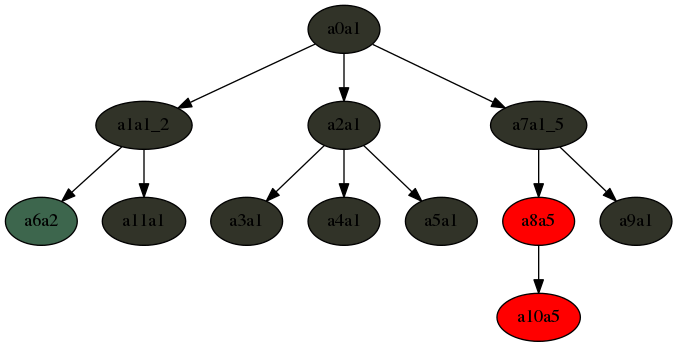
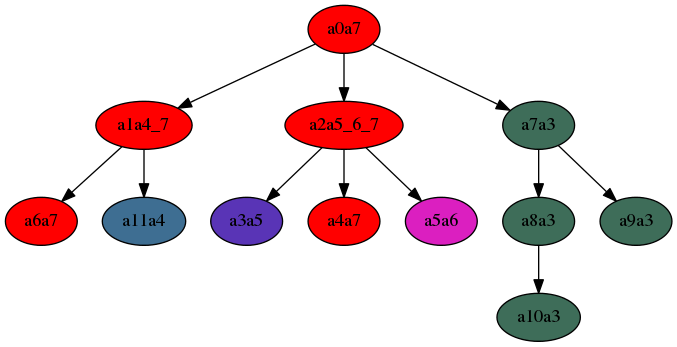
Add min coloring

diff --git a/Graph.py b/Graph.py
@@ -1,3 +1,6 @@
+from collections import Counter
+
+
 class Graph:
     def __init__(self, vertex=0):
         if vertex > 0:
@@ -9,7 +12,6 @@ class Graph:
                 self.data.append([])
                 self.inverse_data.append([])
                 self.R.append(set())
-
         else:
             self.data = []
             self.colors = []
@@ -17,6 +19,7 @@ class Graph:
             self.R = []
         self.root = -1
         self.max_color = -1
+        self.need_colors = {}
 
     def add_edge(self, a, b):
         self.data[a].append(b)
@@ -26,6 +29,10 @@ class Graph:
         self.colors[n] = c
         if c > self.max_color:
             self.max_color = c
+        if c in self.need_colors:
+            self.need_colors[c] = 2
+        else:
+            self.need_colors[c] = 1
 
     def find_root(self):
         used = [False] * len(self.data)
@@ -87,29 +94,33 @@ class Graph:
 
     def fitch_step1(self, v):
         if len(self.data[v]) == 0:
-            if not self.colors[v] == -1:
-                self.R[v] = {self.colors[v]}
-            else:
-                self.R[v] = {1}
+            self.R[v] = {self.colors[v]}
             return
         for k in self.data[v]:
             self.fitch_step1(k)
-
-        intersection = self.R[self.data[v][0]]
+        intersection = Counter()
         for k in self.data[v]:
-            intersection = intersection.intersection(self.R[k])
-        if len(intersection) == 0:
-            res = set()
-            for k in self.data[v]:
-                res = res.union(self.R[k])
+            intersection.update(list(self.R[k]))
+
+        #Ровно один цвет присутствует
+        if len(intersection) == 1:
+            res = set(intersection.keys())
             self.R[v] = res
         else:
-            self.R[v] = intersection
+            most_common_colours = intersection.most_common(2)
+            if most_common_colours[1][1] > 1:
+                print("for vertex v=" + str(v) + "found more 2 colours" + str(most_common_colours))
+                exit(-1)
+            elif most_common_colours[0][1] > 1:
+                self.R[v] = {most_common_colours[0][0]}
+            else:
+                self.R[v] = set(intersection.keys())
 
     def fitch_step2(self, v, parent):
         if self.colors[parent] in self.R[v]:
             self.colors[v] = self.colors[parent]
         else:
-            self.colors[v] = list(self.R[v])[0]
+            if len(self.R[v]) == 1 and self.need_colors[list(self.R[v])[0]] == 2:
+                self.colors[v] = list(self.R[v])[0]
         for t in self.data[v]:
             self.fitch_step2(t, v)

diff --git a/main.py b/main.py
@@ -11,7 +11,6 @@ def visualize(graph, name):
     os.system("dot " + name + ".dot -Tpng -o " + name + ".png")
 
 
-# TODO
 def visualize_fitch_step1(graph, name):
     res = open(name + ".dot", "w")
     res.write("digraph " + name + "{\n")
@@ -48,4 +47,5 @@ def main(name_f):
     visualize(graph, "fitch_res")
 
 
-main("input.txt")
+# main("input.txt")
+main("test2.txt")
